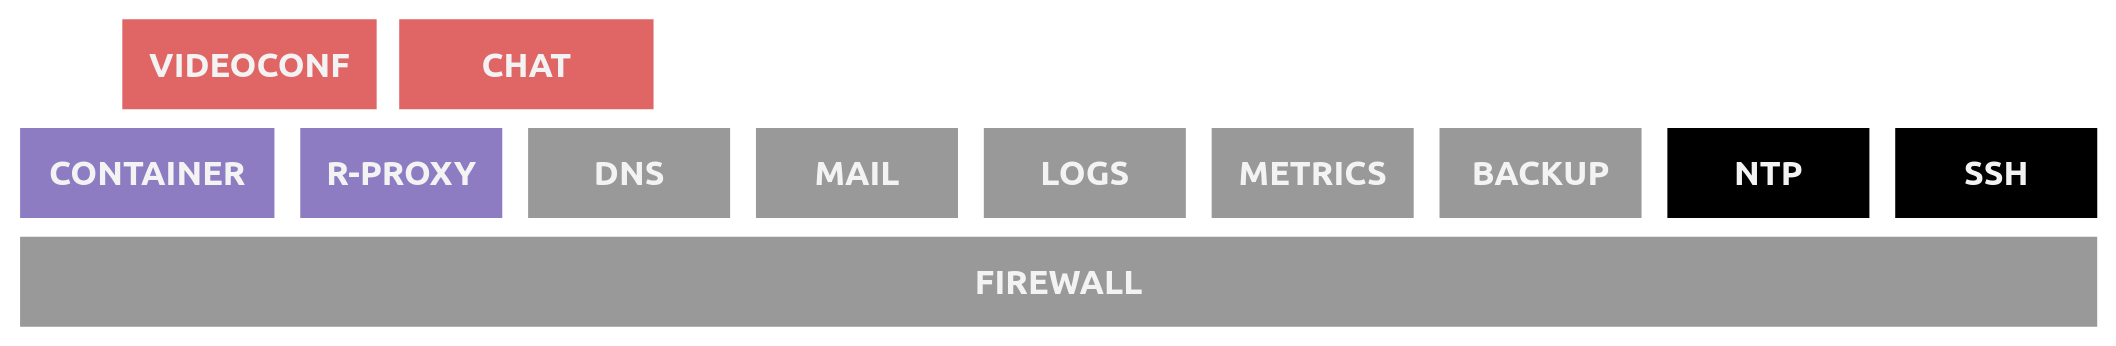
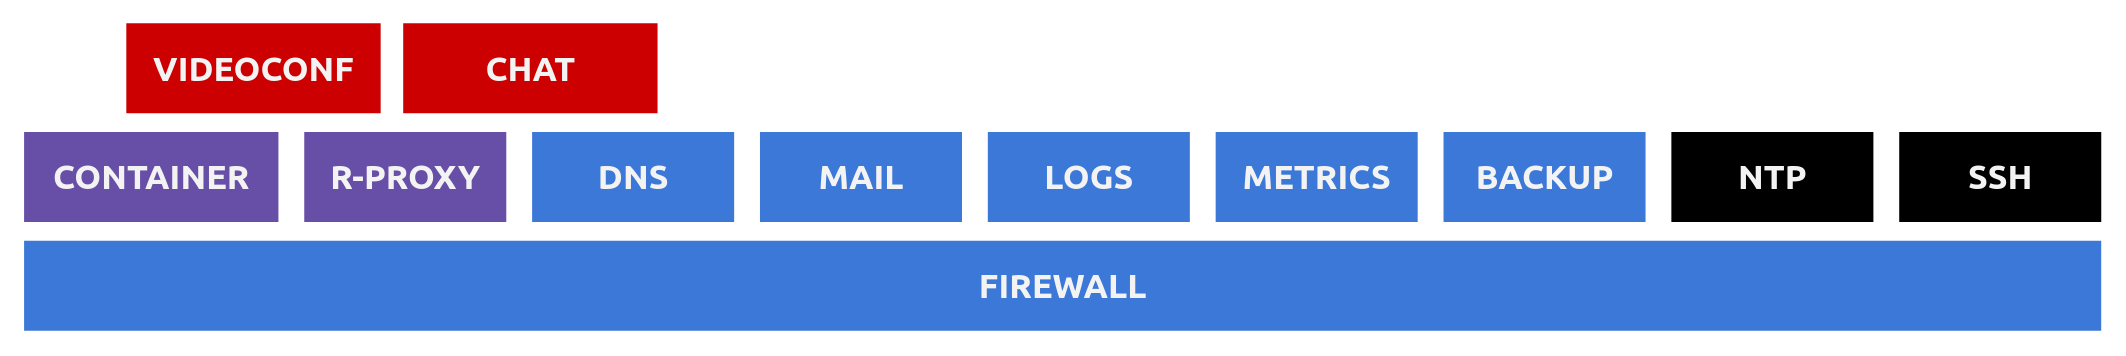
doc

diff --git a/README.md b/README.md
@@ -22,7 +22,7 @@
 * **NTP**: Based on [ntpd](http://www.ntp.org/)
 * **SSH**: Based on [openssh](https://www.openssh.com/)
 
-### Core services (GREY)
+### Core services (BLUE)
 
 Core services are installed at the operating system level.
 
